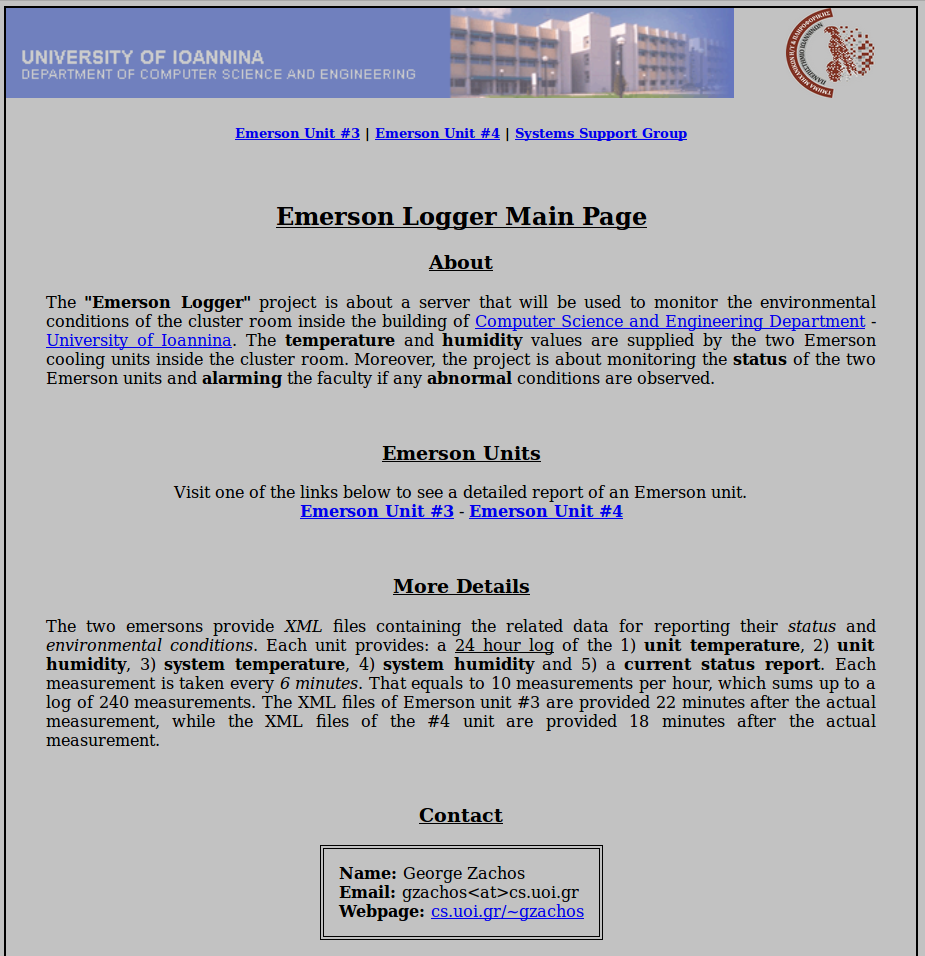
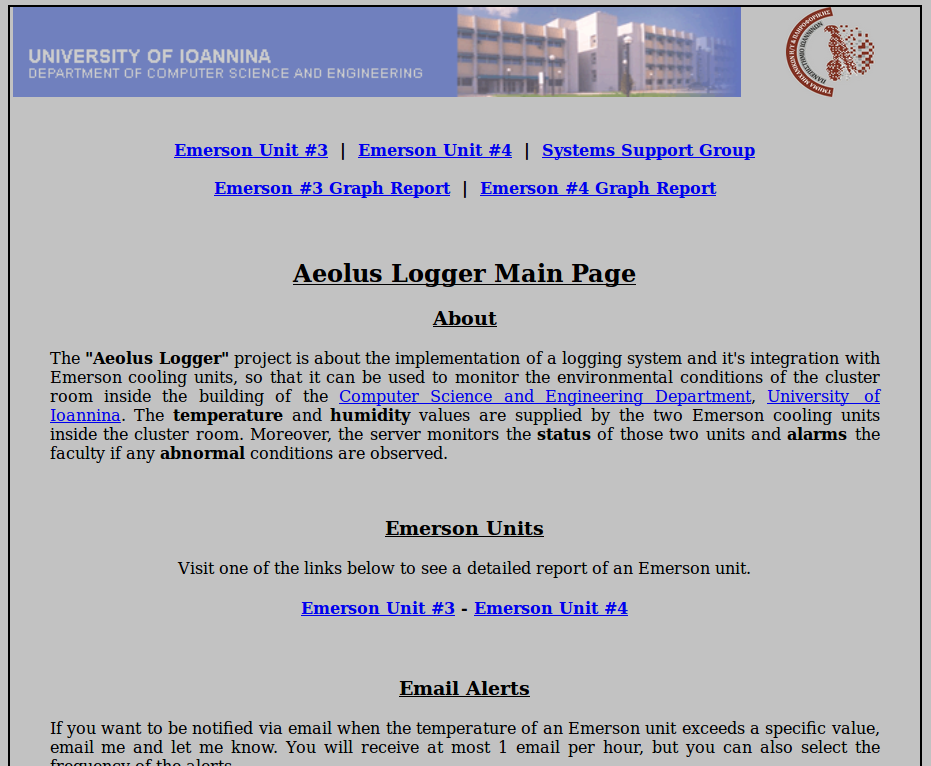
Updated README.md, generate_main_page.sh and made some other minor changes

Changed region(s): [[0.0, 0.0, 0.9989, 1.0], [0.8476, 0.0, 0.9384, 0.1201], [0.787, 0.0, 0.8173, 0.03]]

diff --git a/README.md b/README.md
@@ -1,4 +1,4 @@
-emerson-logger
+aeolus-logger
 =============
 This repository contains the code developed during the "__Aeolus Logger__" project.
 
@@ -36,6 +36,9 @@ Screenshots
 
 <br>_Sample graph (1 Month Humidity Log - Emerson #4)_<br>
 ![Sample Graph](./images/demo_hum_4week.png)
+
+<br>_Email Alert_<br>
+![Email Alert example](./images/aeolus_email_alert.png)
 
 
 W3C valid website
